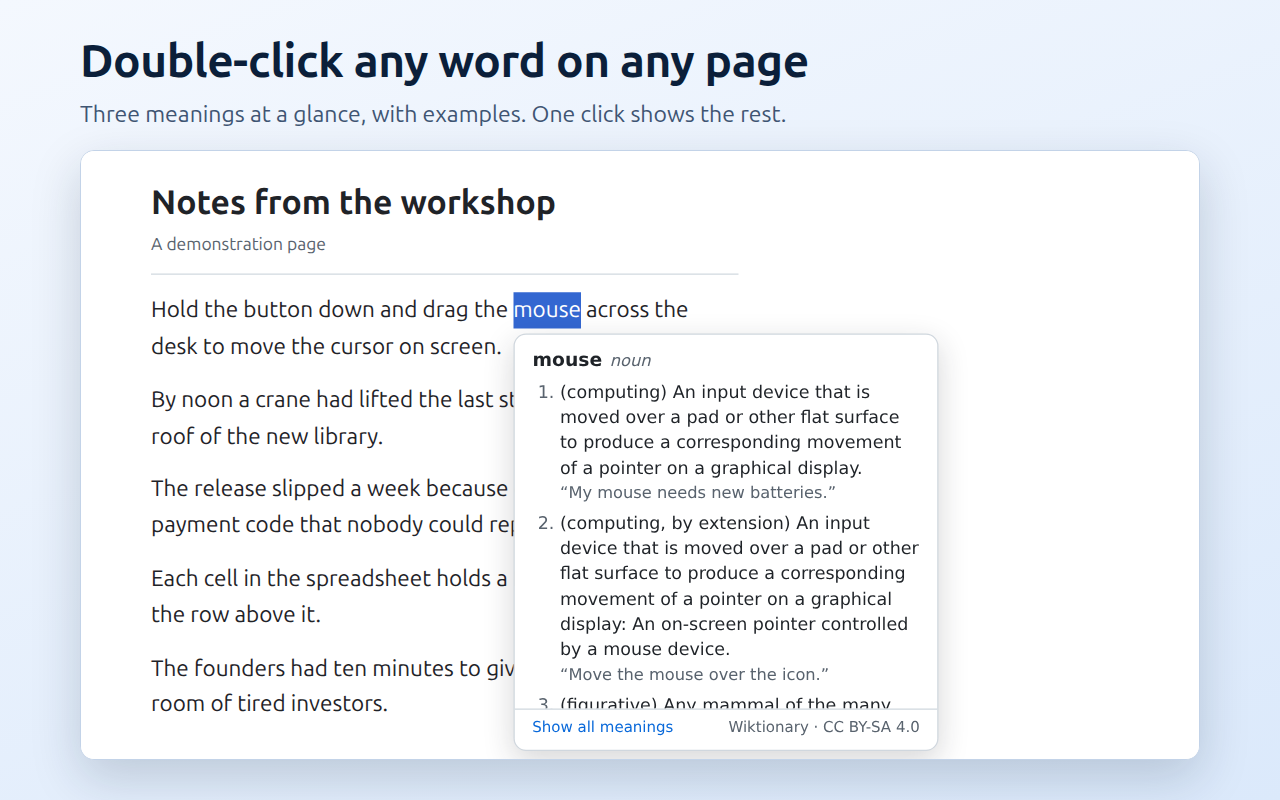
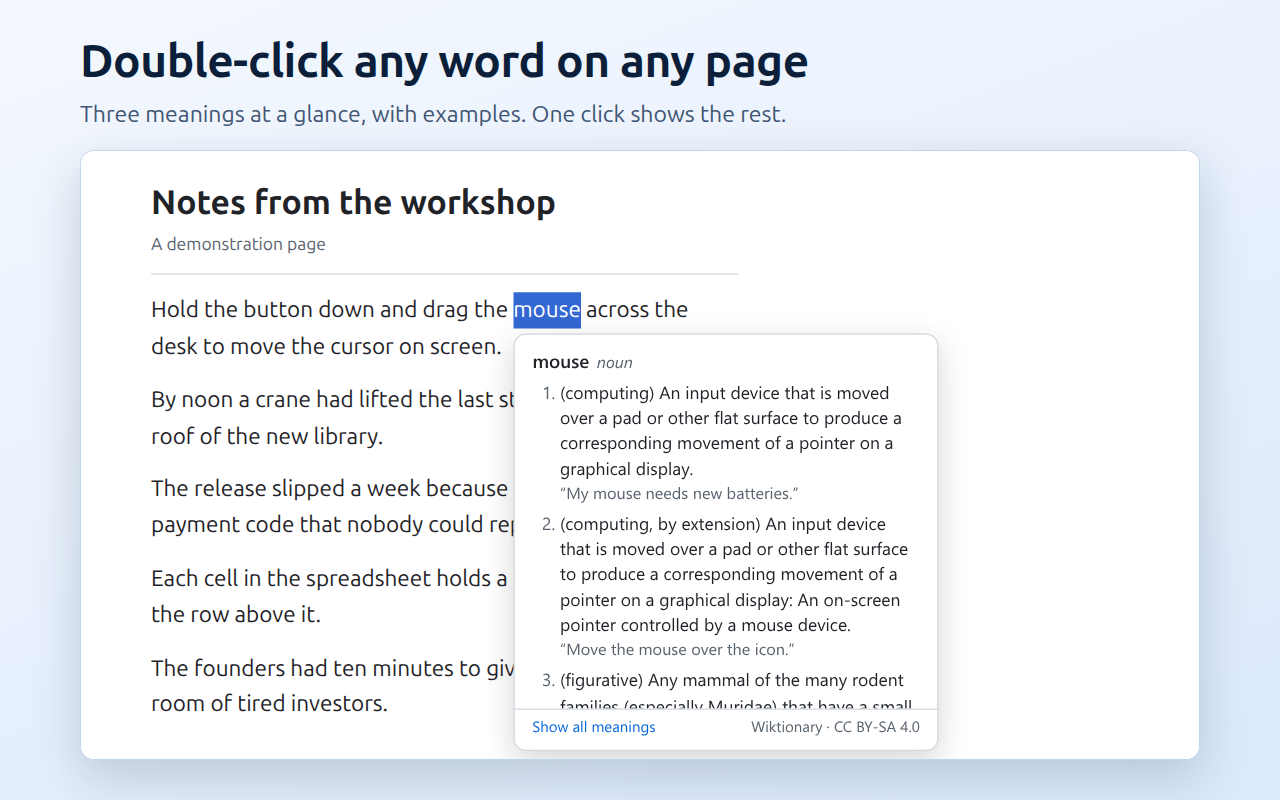
Store: images for 0.3.1
Taken again with validation/store-assets.ts from the 0.3.1 build: the card
now opens with three entries, three meanings and one example, and the five
screenshots and the marquee tile show it.

Changed region(s): [[0.4062, 0.4375, 0.7188, 0.9375]]

diff --git a/store/listing.md b/store/listing.md
@@ -69,7 +69,7 @@ Definitions from Wiktionary (CC BY-SA 4.0), via Kaikki.org. Model: Ettin-150m-WS
 | Small promo tile | `promo-small-440x280.png` | 440 × 280 |
 | Marquee promo tile (optional) | `promo-marquee-1400x560.png` | 1400 × 560 |
 
-Screenshots 1, 2 and 4 show `shakespeare.mit.edu/hamlet/hamlet.3.1.html` (4 with "Show order details" on); 3 shows a demonstration page written for this purpose; 5 shows the extension's window. They were taken with version 0.2.0. The cards and the window are captures of the running extension, set in a frame with a headline. The screenshots are 24-bit PNG without transparency, as the store asks.
+Screenshots 1, 2 and 4 show `shakespeare.mit.edu/hamlet/hamlet.3.1.html` (4 with "Show order details" on); 3 shows a demonstration page written for this purpose; 5 shows the extension's window. They were taken with version 0.3.1. The cards and the window are captures of the running extension, set in a frame with a headline. The screenshots are 24-bit PNG without transparency, as the store asks.
 
 ## Privacy tab
 
